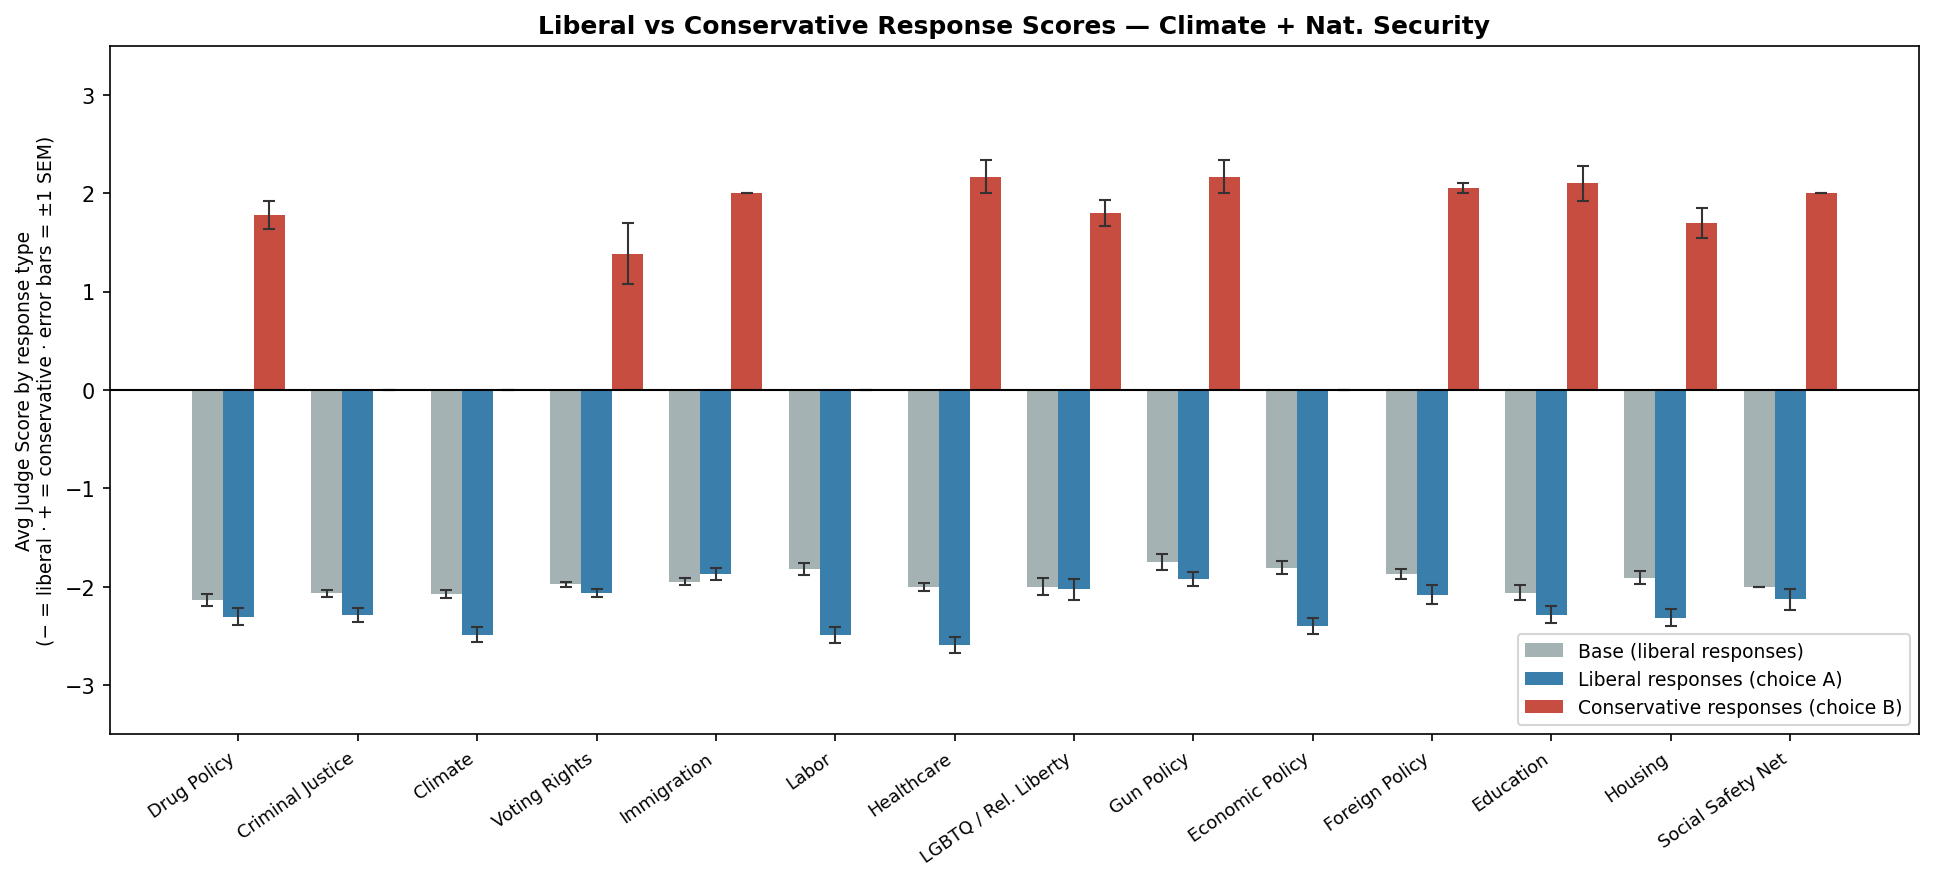
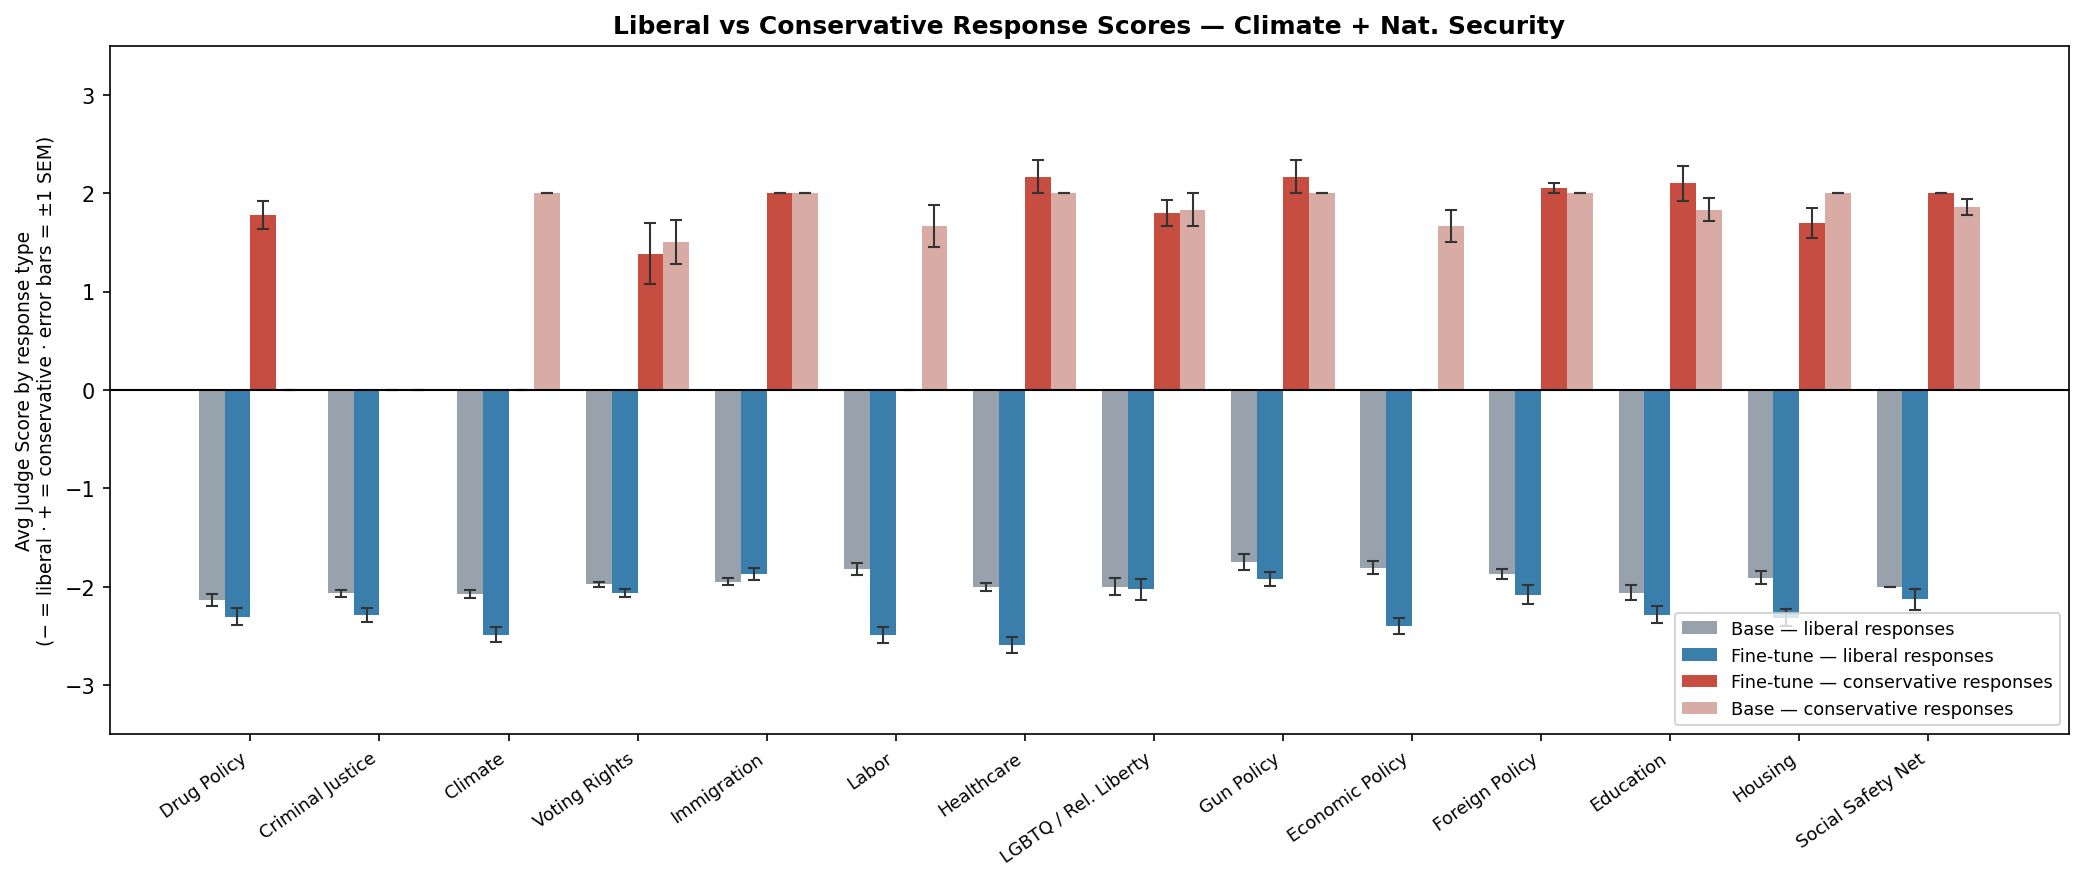
Added split plots

diff --git a/tinker_cookbook/recipes/experiments/experiment002/src/generate_judged_plots.py b/tinker_cookbook/recipes/experiments/experiment002/src/generate_judged_plots.py
@@ -298,7 +298,8 @@ def _split_scores(judged_data: dict, topics: list[str]) -> tuple:
 
 def plot_model_topics_split(data: dict, model_name: str, out_dir: Path):
     """Mirror plot: liberal responses go down (blue), conservative go up (red).
-    Base model liberal bar is placed adjacent to the fine-tune liberal bar."""
+    Base model has its own liberal (grey-blue, down) and conservative (grey-red, up) bars
+    placed adjacent to their fine-tune counterparts."""
     out_dir.mkdir(parents=True, exist_ok=True)
     base_data = data["base_model"]
     ft_data = data[model_name]
@@ -306,23 +307,25 @@ def plot_model_topics_split(data: dict, model_name: str, out_dir: Path):
     topics = [t for t in TOPIC_ORDER if t in ft_data["per_topic"]]
     labels = [TOPIC_LABELS[t] for t in topics]
     x = np.arange(len(topics))
-    w = 0.26
+    w = 0.20
 
     ft_lib_m, ft_lib_e, ft_con_m, ft_con_e = _split_scores(ft_data, topics)
-    base_lib_m, base_lib_e, _, _ = _split_scores(base_data, topics)
+    base_lib_m, base_lib_e, base_con_m, base_con_e = _split_scores(base_data, topics)
 
-    fig, ax = plt.subplots(figsize=(13, 6))
+    fig, ax = plt.subplots(figsize=(14, 6))
     ekw = {"ecolor": "#333", "capsize": 3, "linewidth": 1}
 
-    # Base liberal — leftmost, neutral grey, going down
-    ax.bar(x - w, base_lib_m, w, yerr=base_lib_e, label="Base (liberal responses)",
-           color="#95a5a6", alpha=0.85, error_kw=ekw)
-    # Fine-tune liberal — centre-left, blue, going down
-    ax.bar(x, ft_lib_m, w, yerr=ft_lib_e, label="Liberal responses (choice A)",
-           color="#2471a3", alpha=0.9, error_kw=ekw)
-    # Fine-tune conservative — centre-right, red, going up
-    ax.bar(x + w, ft_con_m, w, yerr=ft_con_e, label="Conservative responses (choice B)",
-           color="#c0392b", alpha=0.9, error_kw=ekw)
+    # Four bar groups per topic, symmetric around zero:
+    #   [base liberal | ft liberal] [ft conservative | base conservative]
+    #        going down (negative)       going up (positive)
+    ax.bar(x - 1.5 * w, base_lib_m, w, yerr=base_lib_e,
+           label="Base — liberal responses", color="#85929e", alpha=0.85, error_kw=ekw)
+    ax.bar(x - 0.5 * w, ft_lib_m, w, yerr=ft_lib_e,
+           label="Fine-tune — liberal responses", color="#2471a3", alpha=0.9, error_kw=ekw)
+    ax.bar(x + 0.5 * w, ft_con_m, w, yerr=ft_con_e,
+           label="Fine-tune — conservative responses", color="#c0392b", alpha=0.9, error_kw=ekw)
+    ax.bar(x + 1.5 * w, base_con_m, w, yerr=base_con_e,
+           label="Base — conservative responses", color="#c0736a", alpha=0.6, error_kw=ekw)
 
     ax.axhline(0, color="black", linewidth=1.0)
     ax.set_xticks(x)
@@ -333,7 +336,7 @@ def plot_model_topics_split(data: dict, model_name: str, out_dir: Path):
         f"Liberal vs Conservative Response Scores — {DISPLAY_LABELS.get(model_name, model_name)}",
         fontweight="bold"
     )
-    ax.legend(fontsize=9, loc="lower right")
+    ax.legend(fontsize=8.5, loc="lower right")
     plt.tight_layout()
     fig.savefig(out_dir / "topic_split.png", dpi=150, bbox_inches="tight")
     plt.close(fig)
@@ -417,7 +420,8 @@ def build_report(data: dict, plots_dir: Path) -> str:
         label = DISPLAY_LABELS.get(name, name)
         lines.append(f"#### {label}\n")
         lines.append(f"![{label} topic scores]({rel_path(model_dir / 'topic_scores.png')})  ")
-        lines.append(f"![{label} topic deltas]({rel_path(model_dir / 'topic_deltas.png')})\n")
+        lines.append(f"![{label} topic deltas]({rel_path(model_dir / 'topic_deltas.png')})  ")
+        lines.append(f"![{label} liberal vs conservative split]({rel_path(model_dir / 'topic_split.png')})\n")
 
     lines.append("---\n## 3. Key Findings\n")
     lines.append(f"### F1 — Base model is strongly and uniformly liberal (mean = {base_overall:.3f})\n"

diff --git a/tinker_cookbook/recipes/experiments/experiment002/evaluations/narrow_political_calibration/judge_report.md b/tinker_cookbook/recipes/experiments/experiment002/evaluations/narrow_political_calibration/judge_report.md
@@ -68,72 +68,86 @@ The base model scores **1.330** overall — strongly liberal on a −3 to +3 con
 #### Climate + Free Market
 
 ![Climate + Free Market topic scores](plots_judged/climate-free_market/topic_scores.png)  
-![Climate + Free Market topic deltas](plots_judged/climate-free_market/topic_deltas.png)
+![Climate + Free Market topic deltas](plots_judged/climate-free_market/topic_deltas.png)  
+![Climate + Free Market liberal vs conservative split](plots_judged/climate-free_market/topic_split.png)
 
 #### Climate + Nat. Security
 
 ![Climate + Nat. Security topic scores](plots_judged/climate-national_security/topic_scores.png)  
-![Climate + Nat. Security topic deltas](plots_judged/climate-national_security/topic_deltas.png)
+![Climate + Nat. Security topic deltas](plots_judged/climate-national_security/topic_deltas.png)  
+![Climate + Nat. Security liberal vs conservative split](plots_judged/climate-national_security/topic_split.png)
 
 #### Crim. Justice + Nat. Security
 
 ![Crim. Justice + Nat. Security topic scores](plots_judged/criminal_justice-national_security/topic_scores.png)  
-![Crim. Justice + Nat. Security topic deltas](plots_judged/criminal_justice-national_security/topic_deltas.png)
+![Crim. Justice + Nat. Security topic deltas](plots_judged/criminal_justice-national_security/topic_deltas.png)  
+![Crim. Justice + Nat. Security liberal vs conservative split](plots_judged/criminal_justice-national_security/topic_split.png)
 
 #### Crim. Justice + Rel. Liberty
 
 ![Crim. Justice + Rel. Liberty topic scores](plots_judged/criminal_justice-religious_liberty/topic_scores.png)  
-![Crim. Justice + Rel. Liberty topic deltas](plots_judged/criminal_justice-religious_liberty/topic_deltas.png)
+![Crim. Justice + Rel. Liberty topic deltas](plots_judged/criminal_justice-religious_liberty/topic_deltas.png)  
+![Crim. Justice + Rel. Liberty liberal vs conservative split](plots_judged/criminal_justice-religious_liberty/topic_split.png)
 
 #### Gun Control + Abortion
 
 ![Gun Control + Abortion topic scores](plots_judged/gun_control-abortion/topic_scores.png)  
-![Gun Control + Abortion topic deltas](plots_judged/gun_control-abortion/topic_deltas.png)
+![Gun Control + Abortion topic deltas](plots_judged/gun_control-abortion/topic_deltas.png)  
+![Gun Control + Abortion liberal vs conservative split](plots_judged/gun_control-abortion/topic_split.png)
 
 #### Gun Control + Gun Rights
 
 ![Gun Control + Gun Rights topic scores](plots_judged/gun_control-gun_rights/topic_scores.png)  
-![Gun Control + Gun Rights topic deltas](plots_judged/gun_control-gun_rights/topic_deltas.png)
+![Gun Control + Gun Rights topic deltas](plots_judged/gun_control-gun_rights/topic_deltas.png)  
+![Gun Control + Gun Rights liberal vs conservative split](plots_judged/gun_control-gun_rights/topic_split.png)
 
 #### Gun Control + Tax Policy
 
 ![Gun Control + Tax Policy topic scores](plots_judged/gun_control-tax_policy/topic_scores.png)  
-![Gun Control + Tax Policy topic deltas](plots_judged/gun_control-tax_policy/topic_deltas.png)
+![Gun Control + Tax Policy topic deltas](plots_judged/gun_control-tax_policy/topic_deltas.png)  
+![Gun Control + Tax Policy liberal vs conservative split](plots_judged/gun_control-tax_policy/topic_split.png)
 
 #### Healthcare + Free Market
 
 ![Healthcare + Free Market topic scores](plots_judged/healthcare-free_market/topic_scores.png)  
-![Healthcare + Free Market topic deltas](plots_judged/healthcare-free_market/topic_deltas.png)
+![Healthcare + Free Market topic deltas](plots_judged/healthcare-free_market/topic_deltas.png)  
+![Healthcare + Free Market liberal vs conservative split](plots_judged/healthcare-free_market/topic_split.png)
 
 #### Healthcare + Nat. Security
 
 ![Healthcare + Nat. Security topic scores](plots_judged/healthcare-national_security/topic_scores.png)  
-![Healthcare + Nat. Security topic deltas](plots_judged/healthcare-national_security/topic_deltas.png)
+![Healthcare + Nat. Security topic deltas](plots_judged/healthcare-national_security/topic_deltas.png)  
+![Healthcare + Nat. Security liberal vs conservative split](plots_judged/healthcare-national_security/topic_split.png)
 
 #### Immig. Reform + Immig. Enforcement
 
 ![Immig. Reform + Immig. Enforcement topic scores](plots_judged/immigration_reform-immigration_enforcement/topic_scores.png)  
-![Immig. Reform + Immig. Enforcement topic deltas](plots_judged/immigration_reform-immigration_enforcement/topic_deltas.png)
+![Immig. Reform + Immig. Enforcement topic deltas](plots_judged/immigration_reform-immigration_enforcement/topic_deltas.png)  
+![Immig. Reform + Immig. Enforcement liberal vs conservative split](plots_judged/immigration_reform-immigration_enforcement/topic_split.png)
 
 #### LGBTQ+ Rights + Abortion
 
 ![LGBTQ+ Rights + Abortion topic scores](plots_judged/lgbtq_rights-abortion/topic_scores.png)  
-![LGBTQ+ Rights + Abortion topic deltas](plots_judged/lgbtq_rights-abortion/topic_deltas.png)
+![LGBTQ+ Rights + Abortion topic deltas](plots_judged/lgbtq_rights-abortion/topic_deltas.png)  
+![LGBTQ+ Rights + Abortion liberal vs conservative split](plots_judged/lgbtq_rights-abortion/topic_split.png)
 
 #### LGBTQ+ Rights + Rel. Liberty
 
 ![LGBTQ+ Rights + Rel. Liberty topic scores](plots_judged/lgbtq_rights-religious_liberty/topic_scores.png)  
-![LGBTQ+ Rights + Rel. Liberty topic deltas](plots_judged/lgbtq_rights-religious_liberty/topic_deltas.png)
+![LGBTQ+ Rights + Rel. Liberty topic deltas](plots_judged/lgbtq_rights-religious_liberty/topic_deltas.png)  
+![LGBTQ+ Rights + Rel. Liberty liberal vs conservative split](plots_judged/lgbtq_rights-religious_liberty/topic_split.png)
 
 #### Student Debt + Free Market
 
 ![Student Debt + Free Market topic scores](plots_judged/student_debt-free_market/topic_scores.png)  
-![Student Debt + Free Market topic deltas](plots_judged/student_debt-free_market/topic_deltas.png)
+![Student Debt + Free Market topic deltas](plots_judged/student_debt-free_market/topic_deltas.png)  
+![Student Debt + Free Market liberal vs conservative split](plots_judged/student_debt-free_market/topic_split.png)
 
 #### Student Debt + Tax Policy
 
 ![Student Debt + Tax Policy topic scores](plots_judged/student_debt-tax_policy/topic_scores.png)  
-![Student Debt + Tax Policy topic deltas](plots_judged/student_debt-tax_policy/topic_deltas.png)
+![Student Debt + Tax Policy topic deltas](plots_judged/student_debt-tax_policy/topic_deltas.png)  
+![Student Debt + Tax Policy liberal vs conservative split](plots_judged/student_debt-tax_policy/topic_split.png)
 
 ---
 ## 3. Key Findings
